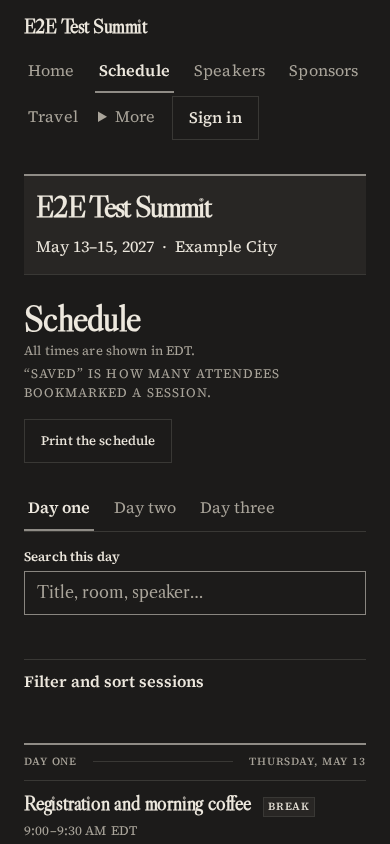
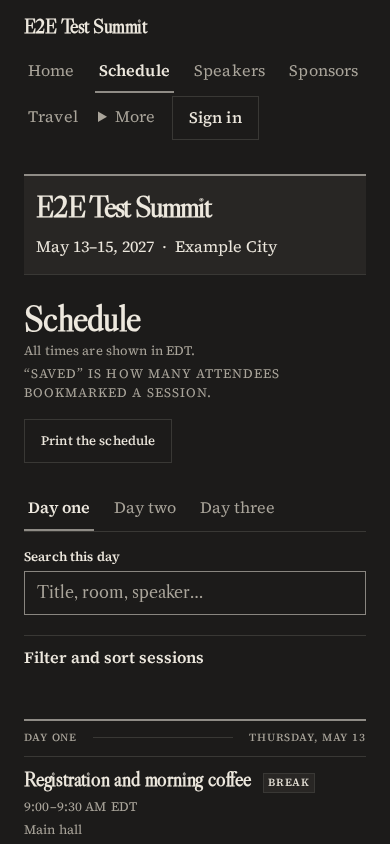
Refresh issue 316 evidence after review fixes

Changed region(s): [[0.0615, 0.8626, 0.9538, 1.0], [0.0615, 0.7701, 0.5231, 0.8318]]

diff --git a/docs/plans/evidence/issue-316-mobile/README.md b/docs/plans/evidence/issue-316-mobile/README.md
@@ -1,7 +1,7 @@
 # Issue 316 mobile layout evidence
 
 This evidence covers the Issue 316 rendering changes at source commit
-`fea64f9d9678298c5e2719e05ca367af0c148c33`. The evidence files are the only
+`8ee16eec6784cc1f951eeffa7a3f7fa795a15fa2`. The evidence files are the only
 changes after that source commit.
 
 The run used the project's Chromium Playwright project and synthetic Firebase
@@ -44,7 +44,7 @@ The machine-readable results are in [summary.json](summary.json),
   footer passed in every theme and mode at phone and desktop widths.
 - The public and CMS phone titles used the full responsive layout. The maximum
   measured phone title sizes were 38.7px public and 37.6px in CMS preview.
-- The Newsroom light Schedule placed its first session at y=762.53px in the
+- The Newsroom light Schedule placed its first session at y=738.53px in the
   400 x 844 viewport. Optional filters stayed reachable in one 44px disclosure.
 - No matrix cell had horizontal document overflow. Navigation and footer
   targets had a minimum rendered height of 44px.
